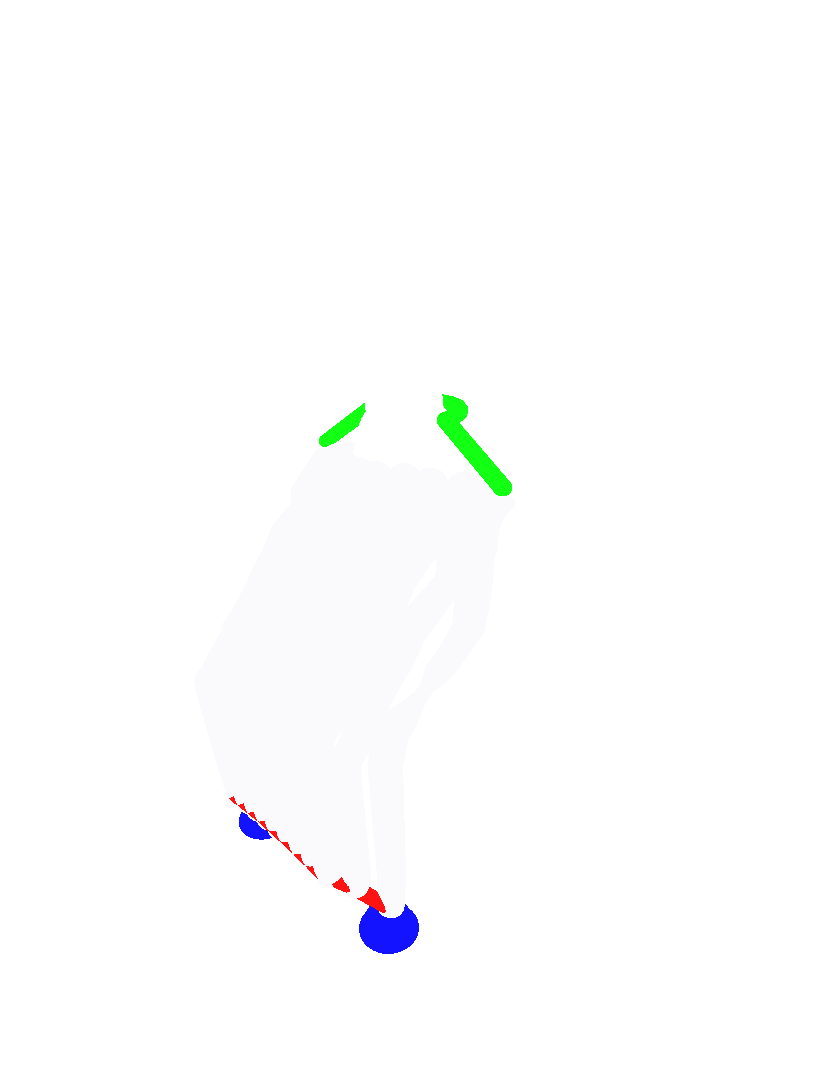
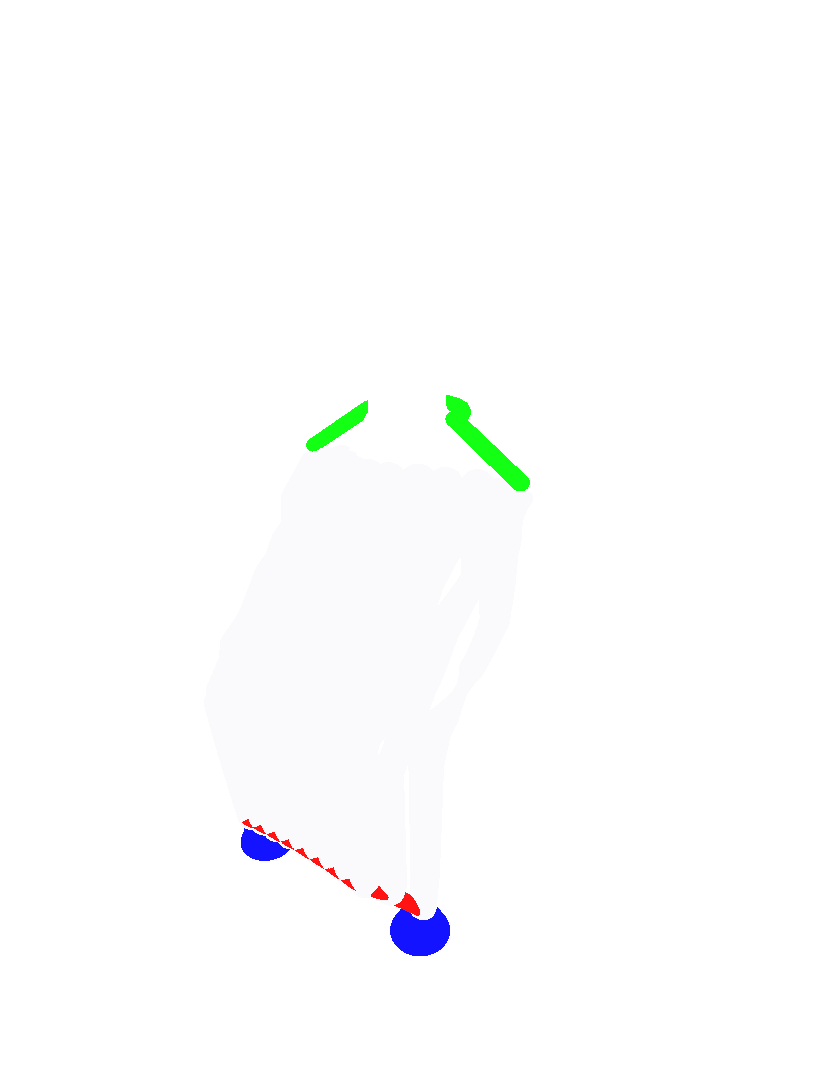
droom 第 8 版（樣品）：眉骨顴骨改回原本大小、臉前面不要太平（眼睛周圍不再鼓起）；面對面斜面改 35 度
Claude-Session: https://claude.ai/code/session_01FDQv7bkUUExXhHZUjYvKLj

diff --git a/web/droom/room_doll_full.js b/web/droom/room_doll_full.js
@@ -415,14 +415,15 @@
       // 2026-11-05 第 6 版（使用者：認真研究鼻樑、眼窩；眼睛是凹進去的，不是凸眼）：眼窩加深（中心比臉表面低約 1.2）、坡緩一點（前後半徑 1.6），眼睛整個坐在凹槽裡，上面眉骨、下面顴骨都比眼睛前面
       // 2026-11-05 第 7 版：臉前面改平（flatN 4.5）後，眼窩中等深（中心比臉表面低約 0.8）就夠：45 度時遠眼在鼻樑和輪廓中間、凹在眼窩裡
       eye: [2.9, 7.1, -.8, 1.95, 1.5, 1.3],
-      brow: [3.4, 5.6, .55, 2.2, 1.0, .8],    // 眉骨：x, y, z, 半徑
-      cheek: [3.6, 5.0, -2.7, 2.0, 1.3, 1.4],  // 顴骨   // 眼窩（挖掉）：x, y, z, 半徑 x/y/z
+      // 2026-11-05 第 8 版（使用者：為什麼眼睛周圍會凸出來）：第 4 版把眉骨、顴骨加大往前，眼睛上下各黏一塊凸起 → 改回原本大小（只跟著眼睛高度移）
+      brow: [3.7, 4.95, .55, 1.9, 1.0, .75],    // 眉骨：x, y, z, 半徑
+      cheek: [3.8, 4.6, -2.4, 1.9, 1.25, 1.35],  // 顴骨   // 眼窩（挖掉）：x, y, z, 半徑 x/y/z
       front: [[-6.2, -.3], [6.2, -.3], [5.8, -3.0], [4.5, -6.0], [.6, -8.5], [-.6, -8.5], [-4.5, -6.0], [-5.8, -3.0]],   // ＋圓角 0.4；上緣收在頭骨裡面（不然臉會比頭寬）
       // 2026-11-01 使用者：45 度下巴太有稜角，要倒三角 → 臉改成疊層（每個高度一個橢圓切面）：[z, 半寬, 前緣 y, 後緣 y]
       loft: [[1.0, 6.3, 6.7, -3.2], [-.5, 6.3, 7.0, -3.2], [-1.9, 6.1, 6.85, -3.2], [-3.0, 5.8, 6.9, -3.0], [-4.4, 5.3, 6.9, -2.2], [-5.0, 5.0, 6.85, -1.6],
         [-5.55, 4.7, 6.8, -1.2], [-6.0, 4.3, 6.7, -.6], [-6.8, 3.4, 6.5, .6], [-7.2, 2.9, 6.35, 1.3], [-7.6, 2.3, 6.6, 1.9], [-8.3, 1.15, 6.5, 3.7], [-8.65, .5, 6.4, 5.0], [-8.8, .2, 6.2, 5.8]],   // 2026-11-01 使用者：側面下巴太圓 → 前緣撐到最底、尖角、下顎線直；嘴的地方平順（嘴唇另外做零件）
       top: [6.2, 7.6, -.5],
-      flatN: 4.5, flatZ: [-5.0, -2.2],   // 臉前面平的程度（超橢圓指數）、從哪個高度（下）漸變到哪個高度（上）完全平   // 前面圓弧（45 度時遠側眼窩剛好在輪廓上）   // 由上往下看的橢圓：半寬、前後半徑、中心 y
+      flatN: 2.8, flatZ: [-5.0, -2.2],   // 第 8 版：4.5 太平，外眼角附近的臉比鼻子那排還前面、45 度從輪廓鼓出去 → 2.8   // 臉前面平的程度（超橢圓指數）、從哪個高度（下）漸變到哪個高度（上）完全平   // 前面圓弧（45 度時遠側眼窩剛好在輪廓上）   // 由上往下看的橢圓：半寬、前後半徑、中心 y
     };
     function animeHead(sh, P, yl, zc) {
       const hs = P.b.head, A = ANIME_HEAD, y0 = yl(zc) + .3, k = P.head_h / 17.6;

diff --git a/web/sw.js b/web/sw.js
@@ -1,7 +1,7 @@
 // 網路優先、離線才退回快取;/api/ 不攔(存檔永遠即時)。
 // 重點:向伺服器要「完整回應」(no-store 的新 Request,不帶條件標頭),
 // 避免拿到空的 304 就丟給頁面 → 造成 app.js/模組載入到空內容而整個炸掉。
-const CACHE = "yorozuya-v523";
+const CACHE = "yorozuya-v524";
 const VISIT = "yoro-visit-pics";
 
 self.addEventListener("install", () => self.skipWaiting());

diff --git a/web/droom/README.md b/web/droom/README.md
@@ -244,3 +244,7 @@ play.html (/droom/play): Doom-style raycaster room, one wandering girl billboard
   - `sh.loft(..., flat)`：前半圈改超橢圓（`ANIME_HEAD.flatN` 4.5，`flatZ` [−5, −2.2]：嘴巴以下照舊圓（倒三角下巴），往上漸變到眉毛以上全平）。眼窩改中等深（中心 y 7.1、比臉表面低約 0.8），鼻樑隆起改小（`bridge` 0.2）。
   - eyes_big.js 遠眼改回預設整隻畫（`far:'full'`），被鼻樑擋住的照標記不畫。
   - room_doll_full.js 另外匯出 `bodyDist`（試參數用）。樣品重出面對面 正面／左前／左。
+- 2026-11-05 第 8 版（使用者：為什麼眼睛會凸出來、眼睛周圍會凸出來；第二張太斜）：
+  - 原因：第 4 版把眉骨、顴骨加大往前（眼睛上下各黏一塊凸起），第 7 版臉前面太平（flatN 4.5，外眼角附近比鼻子那排還前面，斜看時從輪廓鼓出去）。眉骨、顴骨改回原本大小（只跟著眼睛高度移：眉骨 z 0.55、顴骨 z −2.4），flatN 4.5→2.8。
+  - render_close.cjs：面對面的斜前／斜後改用 35 度出圖（`F2F_OBL`，參考圖 3/4 側臉約 30～35 度）；遊戲照 8 方向選張，站在 45 度看到的是 35 度那張。
+  - 樣品重出面對面 正面／左前（35 度）／左。
